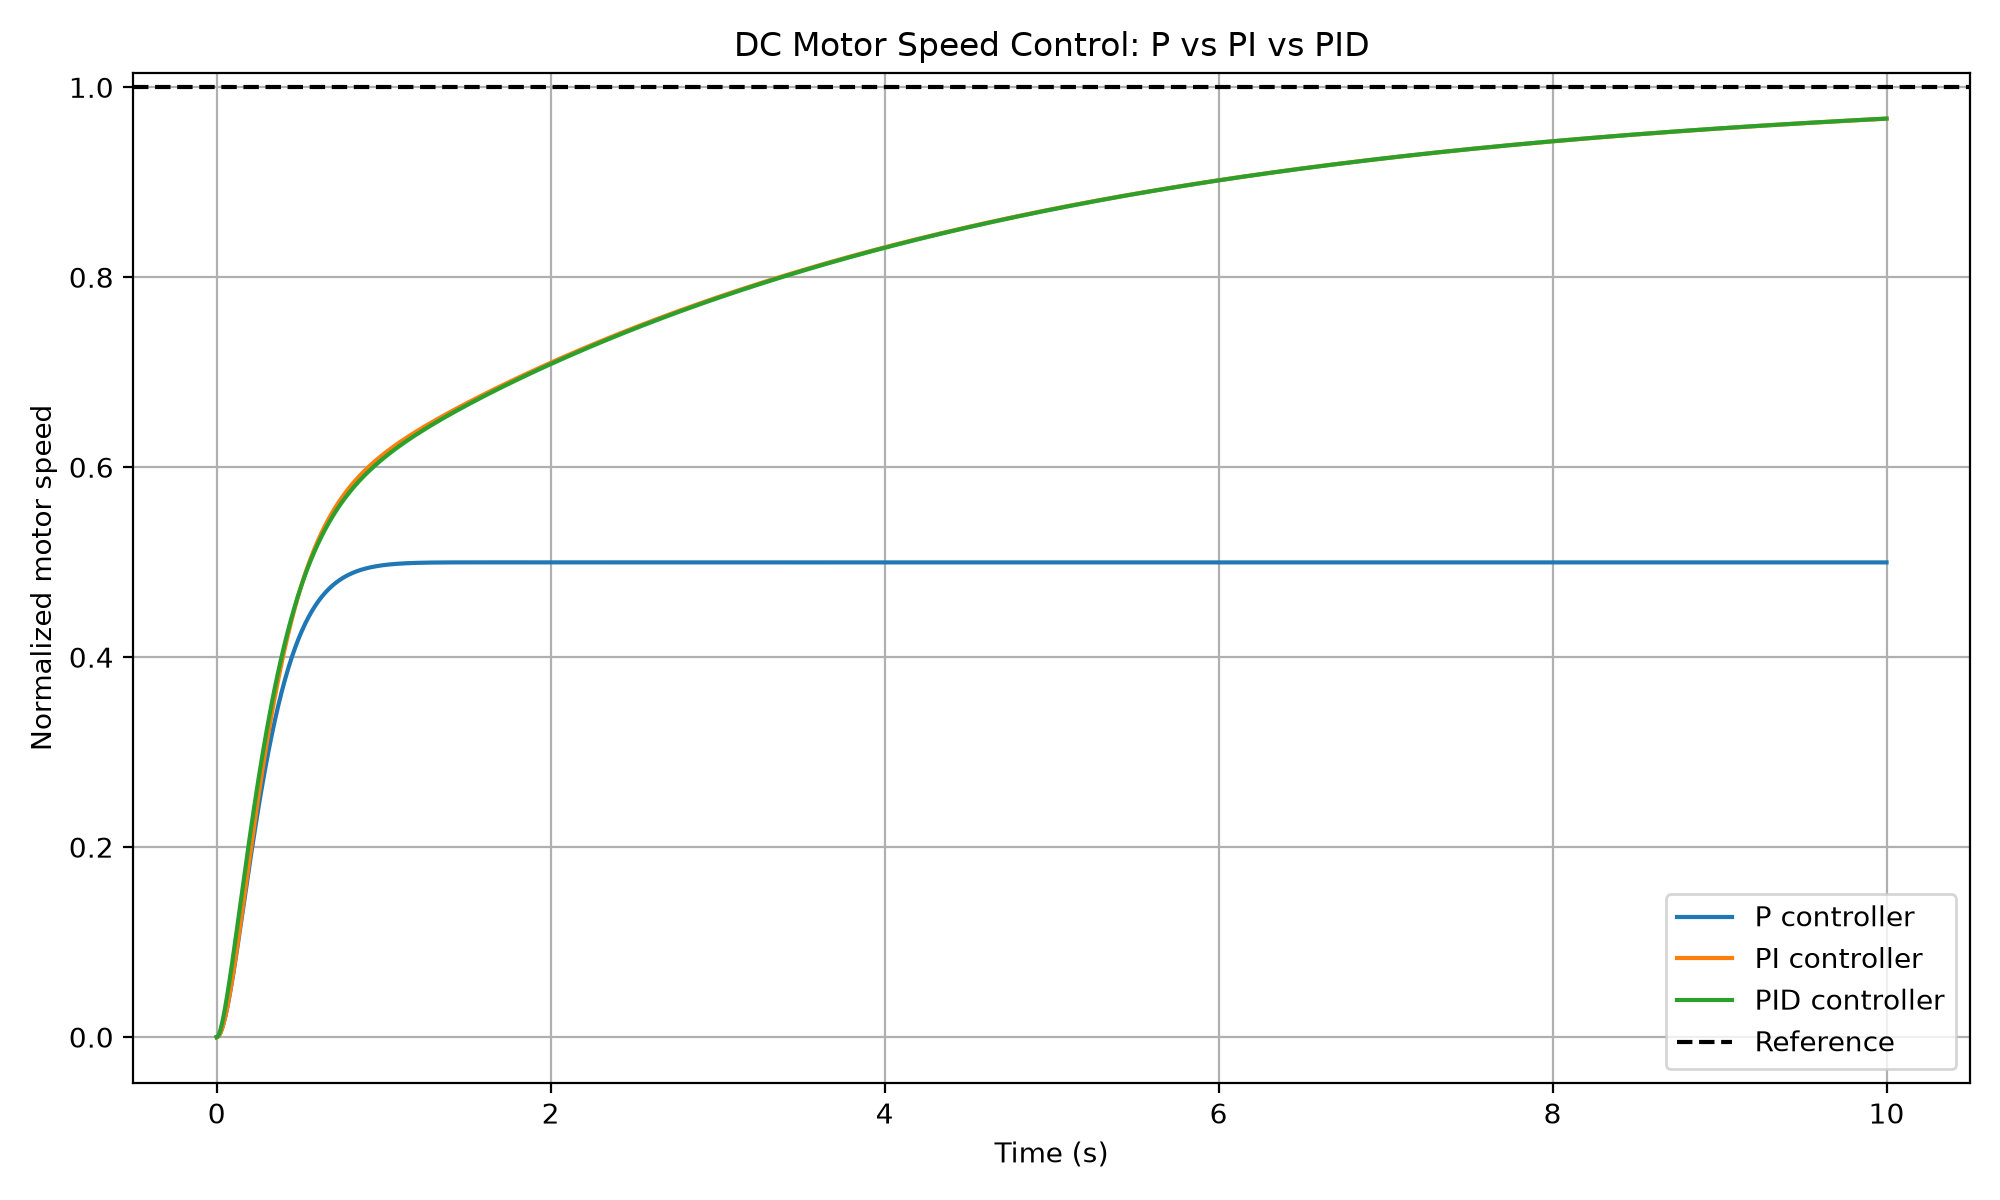
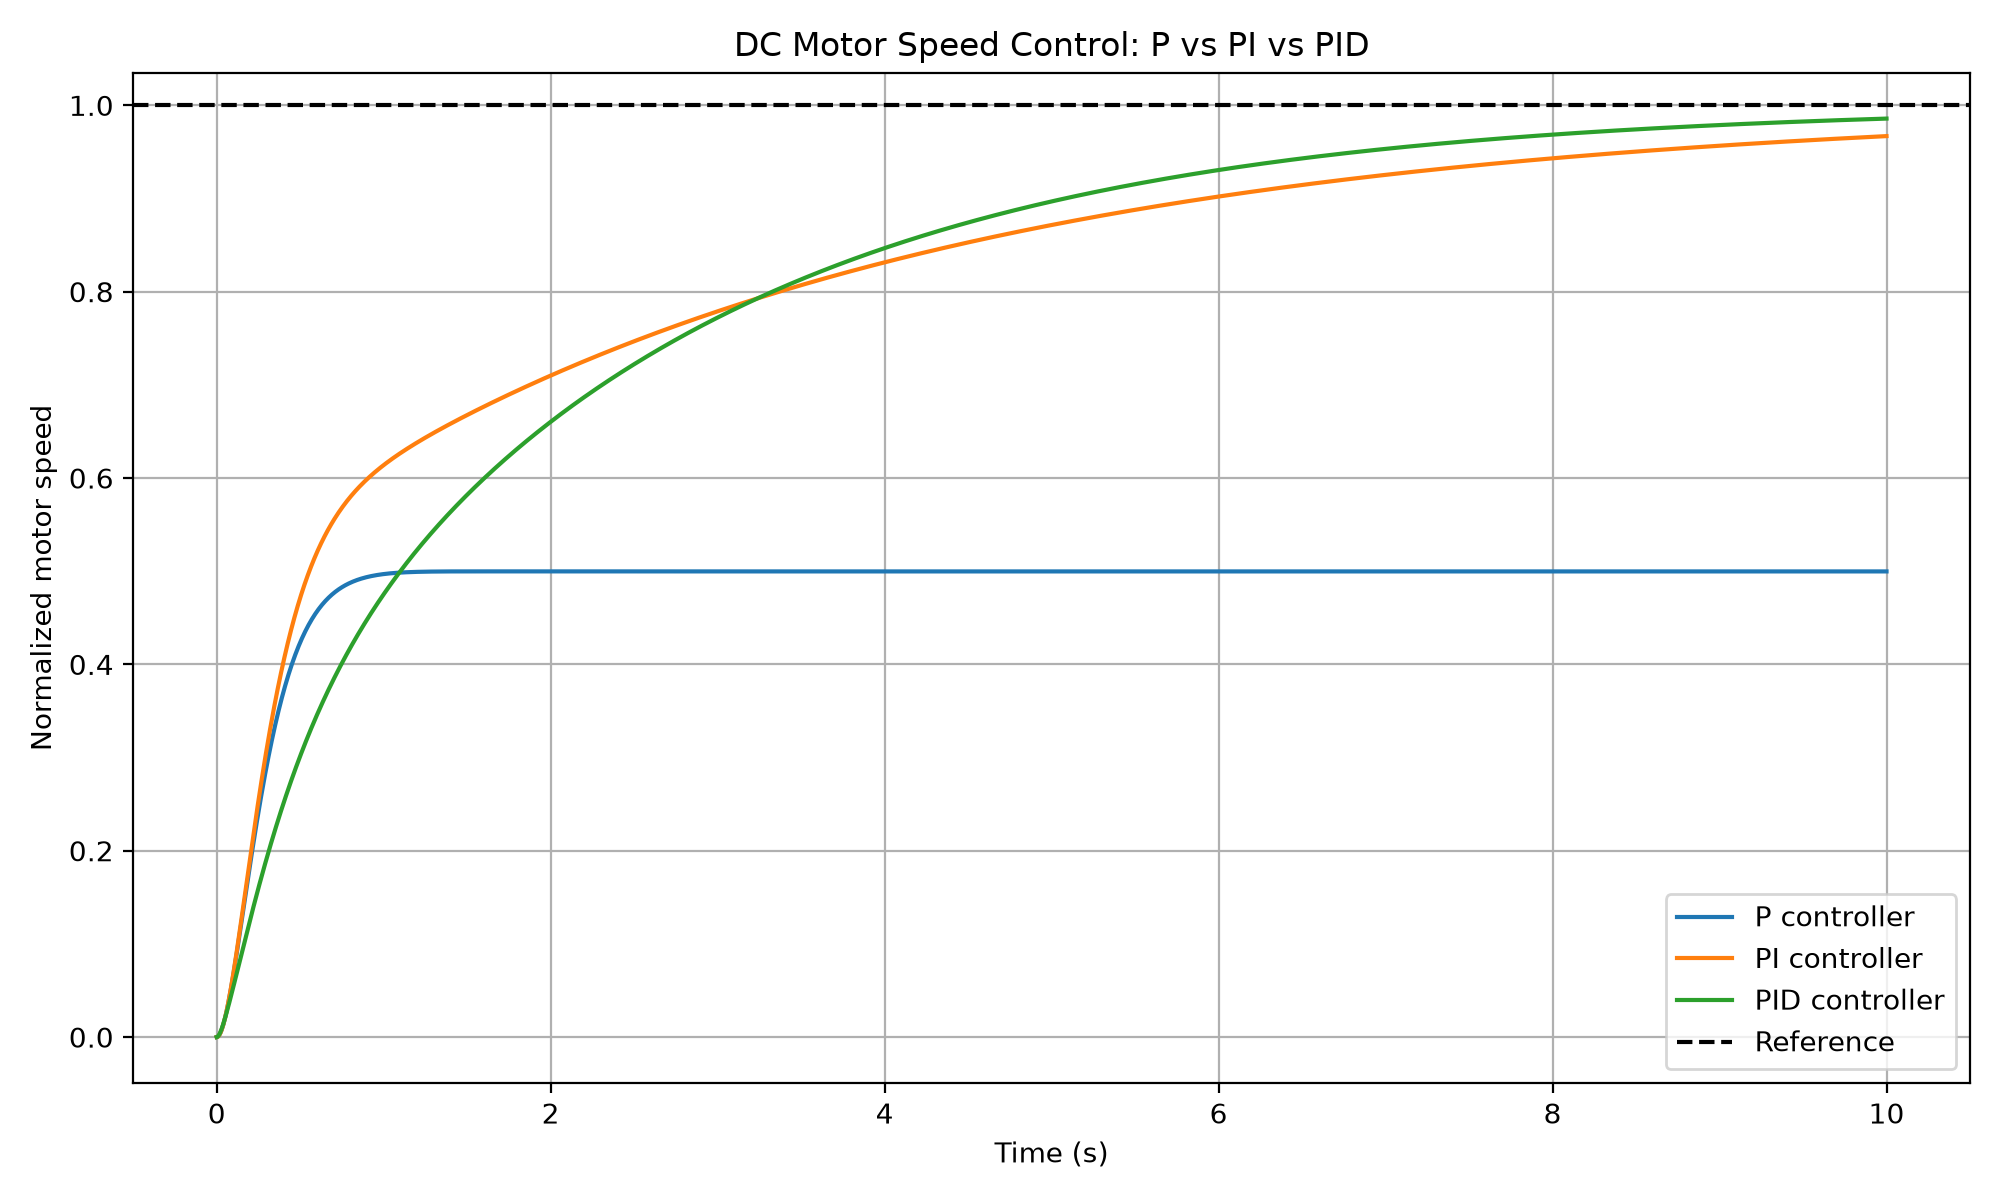
test responses

Changed region(s): [[0.031, 0.0617, 0.992, 0.74], [0.093, 0.74, 0.124, 0.8325], [0.031, 0.7092, 0.062, 0.74]]

diff --git a/motor_pid.py b/motor_pid.py
@@ -67,7 +67,7 @@ def main():
     controllers = [
         ("P controller", 10.0, 0.0, 0.0),
         ("PI controller", 10.0, 5.0, 0.0),
-        ("PID controller", 10.0, 5.0, 0.2),
+        ("PID controller", 5.0, 5.0, 0.2),
     ]
 
     plt.figure(figsize=(10, 6))

diff --git a/README.md b/README.md
@@ -1,0 +1,19 @@
+# DC Motor PID Control Simulation
+
+使用 Python 和 python-control 对直流电机转速控制系统进行建模与仿真，
+比较 P、PI 和 PID 控制器的响应效果。
+
+## 项目功能
+
+- 建立直流电机传递函数
+- 实现 P、PI 和 PID 控制器
+- 绘制单位阶跃响应
+- 计算上升时间、调节时间和超调量
+- 保存实验结果图片
+
+## 运行方法
+
+安装依赖：
+
+```bash
+pip install -r requirements.txt
